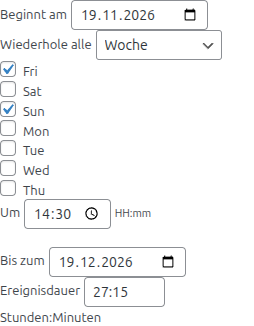
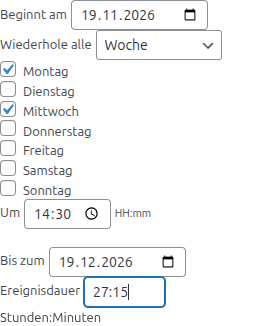
Refactor code structure for improved readability and maintainability

Changed region(s): [[0.0827, 0.184, 0.3583, 0.6135], [0.0, 0.8282, 0.6614, 1.0]]

diff --git a/handbuch/README.md b/handbuch/README.md
@@ -76,7 +76,7 @@ eingerichtet.
 
 Im Screenshot ist der Editor mit Veranstaltungsdetails zu sehen:
 
-![Veranstaltungseditor mit Titel, Ort und Datum](bilder/veranstaltung-editor.png)
+![Veranstaltungsdetails mit Ort, Datum und Uhrzeit](bilder/veranstaltung-editor.png)
 
 ### Wiederkehrende Termine
 
@@ -85,6 +85,8 @@ zugehörige Termine für den gewählten Zeitraum. Beim Veröffentlichen werden d
 Instanzen angelegt; beim Löschen oder Verschieben des Hauptereignisses in den
 Papierkorb werden sie mitverwaltet. Prüfe nach dem Speichern die im Archiv
 angezeigten Termine.
+
+![Wöchentliche Wiederholung mit Montag und Mittwoch und einer Dauer von 27:15 Stunden](bilder/wochenserie.png)
 
 ## RSVPs und Teilnehmende verwalten
 
@@ -180,6 +182,15 @@ PS Events kann in WordPress-Multisite verwendet werden. Veranstaltungen und
 Buchungen werden pro Website gespeichert. Eine Netzwerkaktivierung bedeutet
 daher nicht automatisch, dass eine gemeinsame netzwerkweite Veranstaltungsliste
 angezeigt wird.
+
+Für eine zentrale Aktivierung findest du PS Events unter **Meine Websites →
+Netzwerkverwaltung → Plugins**. Soll PS Events nur auf einer einzelnen
+Website laufen, aktiviere es stattdessen in deren eigener Plugin-Liste.
+
+![Eintrag für PS Events in der Netzwerk-Pluginliste mit der Aktion „Netzwerkweit aktivieren“](bilder/netzwerk-plugins.png)
+
+*In der lokalen Demo blieb PS Events nur auf MarketPress Demo aktiv. Die
+netzwerkweite Ausgabe wurde nicht praktisch geprüft.*
 
 Für die netzwerkweite Sammlung benötigt PS Events das **Multisite
 Beitragsindex**-Plugin (Post Indexer), das Beiträge aus den Websites im

diff --git a/README.md b/README.md
@@ -43,4 +43,8 @@ Multisite steht im [Handbuch](handbuch/README.md).
 ## Datums- und Zeiteingabe
 
 Der Veranstaltungseditor nutzt native Datums- und Uhrzeitfelder des Browsers.
-PS Events benötigt dafür weder jQuery UI noch einen externen Dienst.
+Mehrere Termine und Wiederholungen werden mit lokal eingebundenem Vanilla
+JavaScript gesteuert. PS Events lädt dafür weder jQuery UI noch einen externen
+Dienst.
+
+![Wochenserie im Veranstaltungseditor konfigurieren](handbuch/bilder/wochenserie.png)
